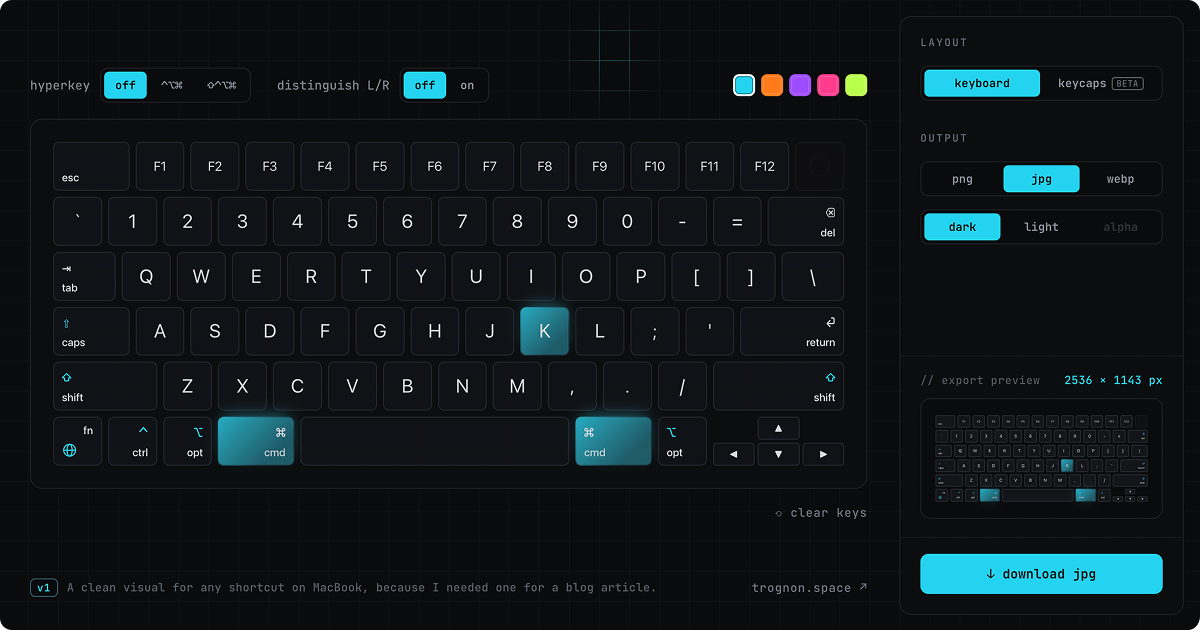
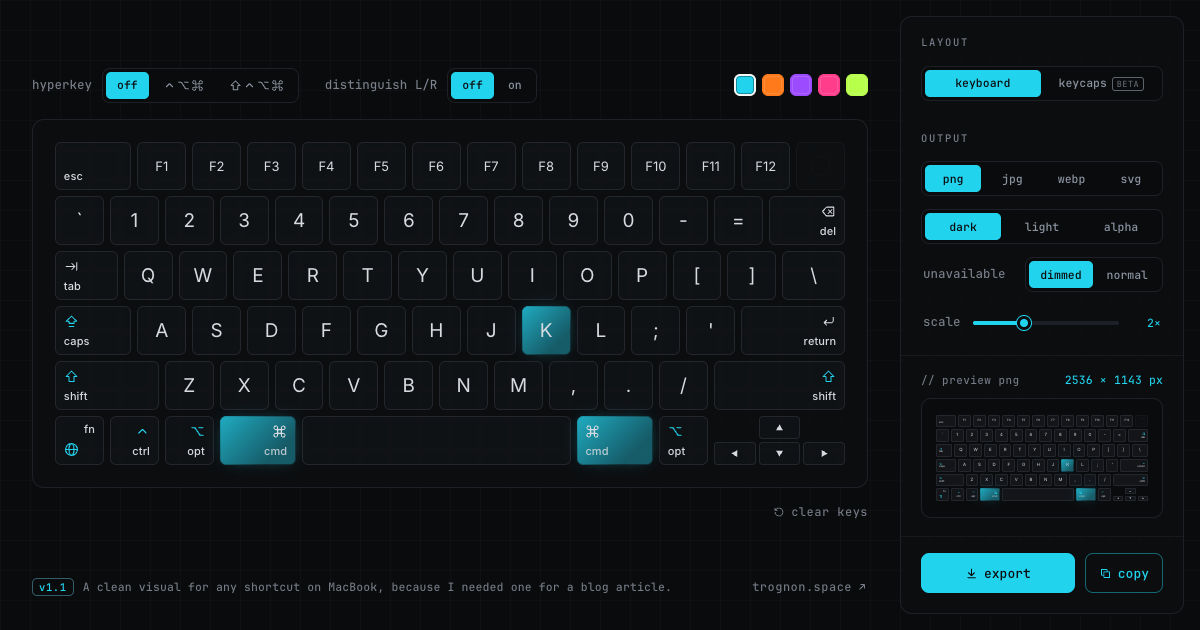
Release hygiene: version label, tag-release guard rails, new social card
- Footer version label comes from config.js only: the static v1.0 fallback in
  index.html went stale at every release; the empty label stays hidden
- tag-release.sh refuses when HEAD is already tagged (the amend would leave
  the old tag off the branch) and warns when HEAD is already pushed
- og-preview.png recaptured from v1.1 (cmd+K, default options), same framing
  as the v1.0 card

diff --git a/site/styles.css b/site/styles.css
@@ -26,6 +26,8 @@ body { overflow: auto; }
   padding: 16px 0 4px; pointer-events: none;
 }
 .opt-d .d-footer .cf-meta { display: flex; align-items: center; gap: 9px; min-width: 0; }
+/* the label stays hidden until renderVersion() fills it from config.js (no static fallback to go stale) */
+.opt-d .d-footer .cf-ver:empty { display: none; }
 .opt-d .d-footer .cf-ver { flex: none; font: 600 10.5px/1 var(--mono); letter-spacing: .06em; color: var(--accent); padding: 3px 6px; border: 1px solid color-mix(in oklab, var(--accent) 35%, #23262d); border-radius: 5px; }
 .opt-d .d-footer .cf-text { font: 500 11.5px/1 var(--mono); color: var(--muted-text); letter-spacing: .01em; white-space: nowrap; overflow: hidden; text-overflow: ellipsis; }
 .opt-d .d-footer .cf-link { display: inline-flex; align-items: center; gap: 4px; font: 500 12px/1 var(--mono); letter-spacing: .04em; color: var(--muted-text); text-decoration: none; flex: none; pointer-events: auto; transition: color .14s ease; }

diff --git a/site/index.html b/site/index.html
@@ -64,7 +64,7 @@
     </div>
 
     <footer class="d-footer">
-      <span class="cf-meta"><span class="cf-ver">v1.0</span><span class="cf-text">A clean visual for any shortcut on MacBook, because I needed one for a blog article.</span></span>
+      <span class="cf-meta"><span class="cf-ver"></span><span class="cf-text">A clean visual for any shortcut on MacBook, because I needed one for a blog article.</span></span>
       <a class="cf-link" href="https://trognon.space" target="_blank" rel="noopener noreferrer">trognon.space<i data-icon="external"></i></a>
     </footer>
   </div>

diff --git a/site/app.js b/site/app.js
@@ -362,8 +362,8 @@
     });
   }
 
-  /* Footer milestone version, from config.js (KSV_VERSION). Guarded so the
-     footer still renders its static fallback if config.js is ever absent. */
+  /* Footer milestone version, from config.js (KSV_VERSION) — the only source: the HTML
+     label is empty, so it never shows a stale version, and stays hidden if config.js is absent. */
   function renderVersion() {
     if (typeof KSV_VERSION === 'undefined') return;
     const el = document.querySelector('.cf-ver');
